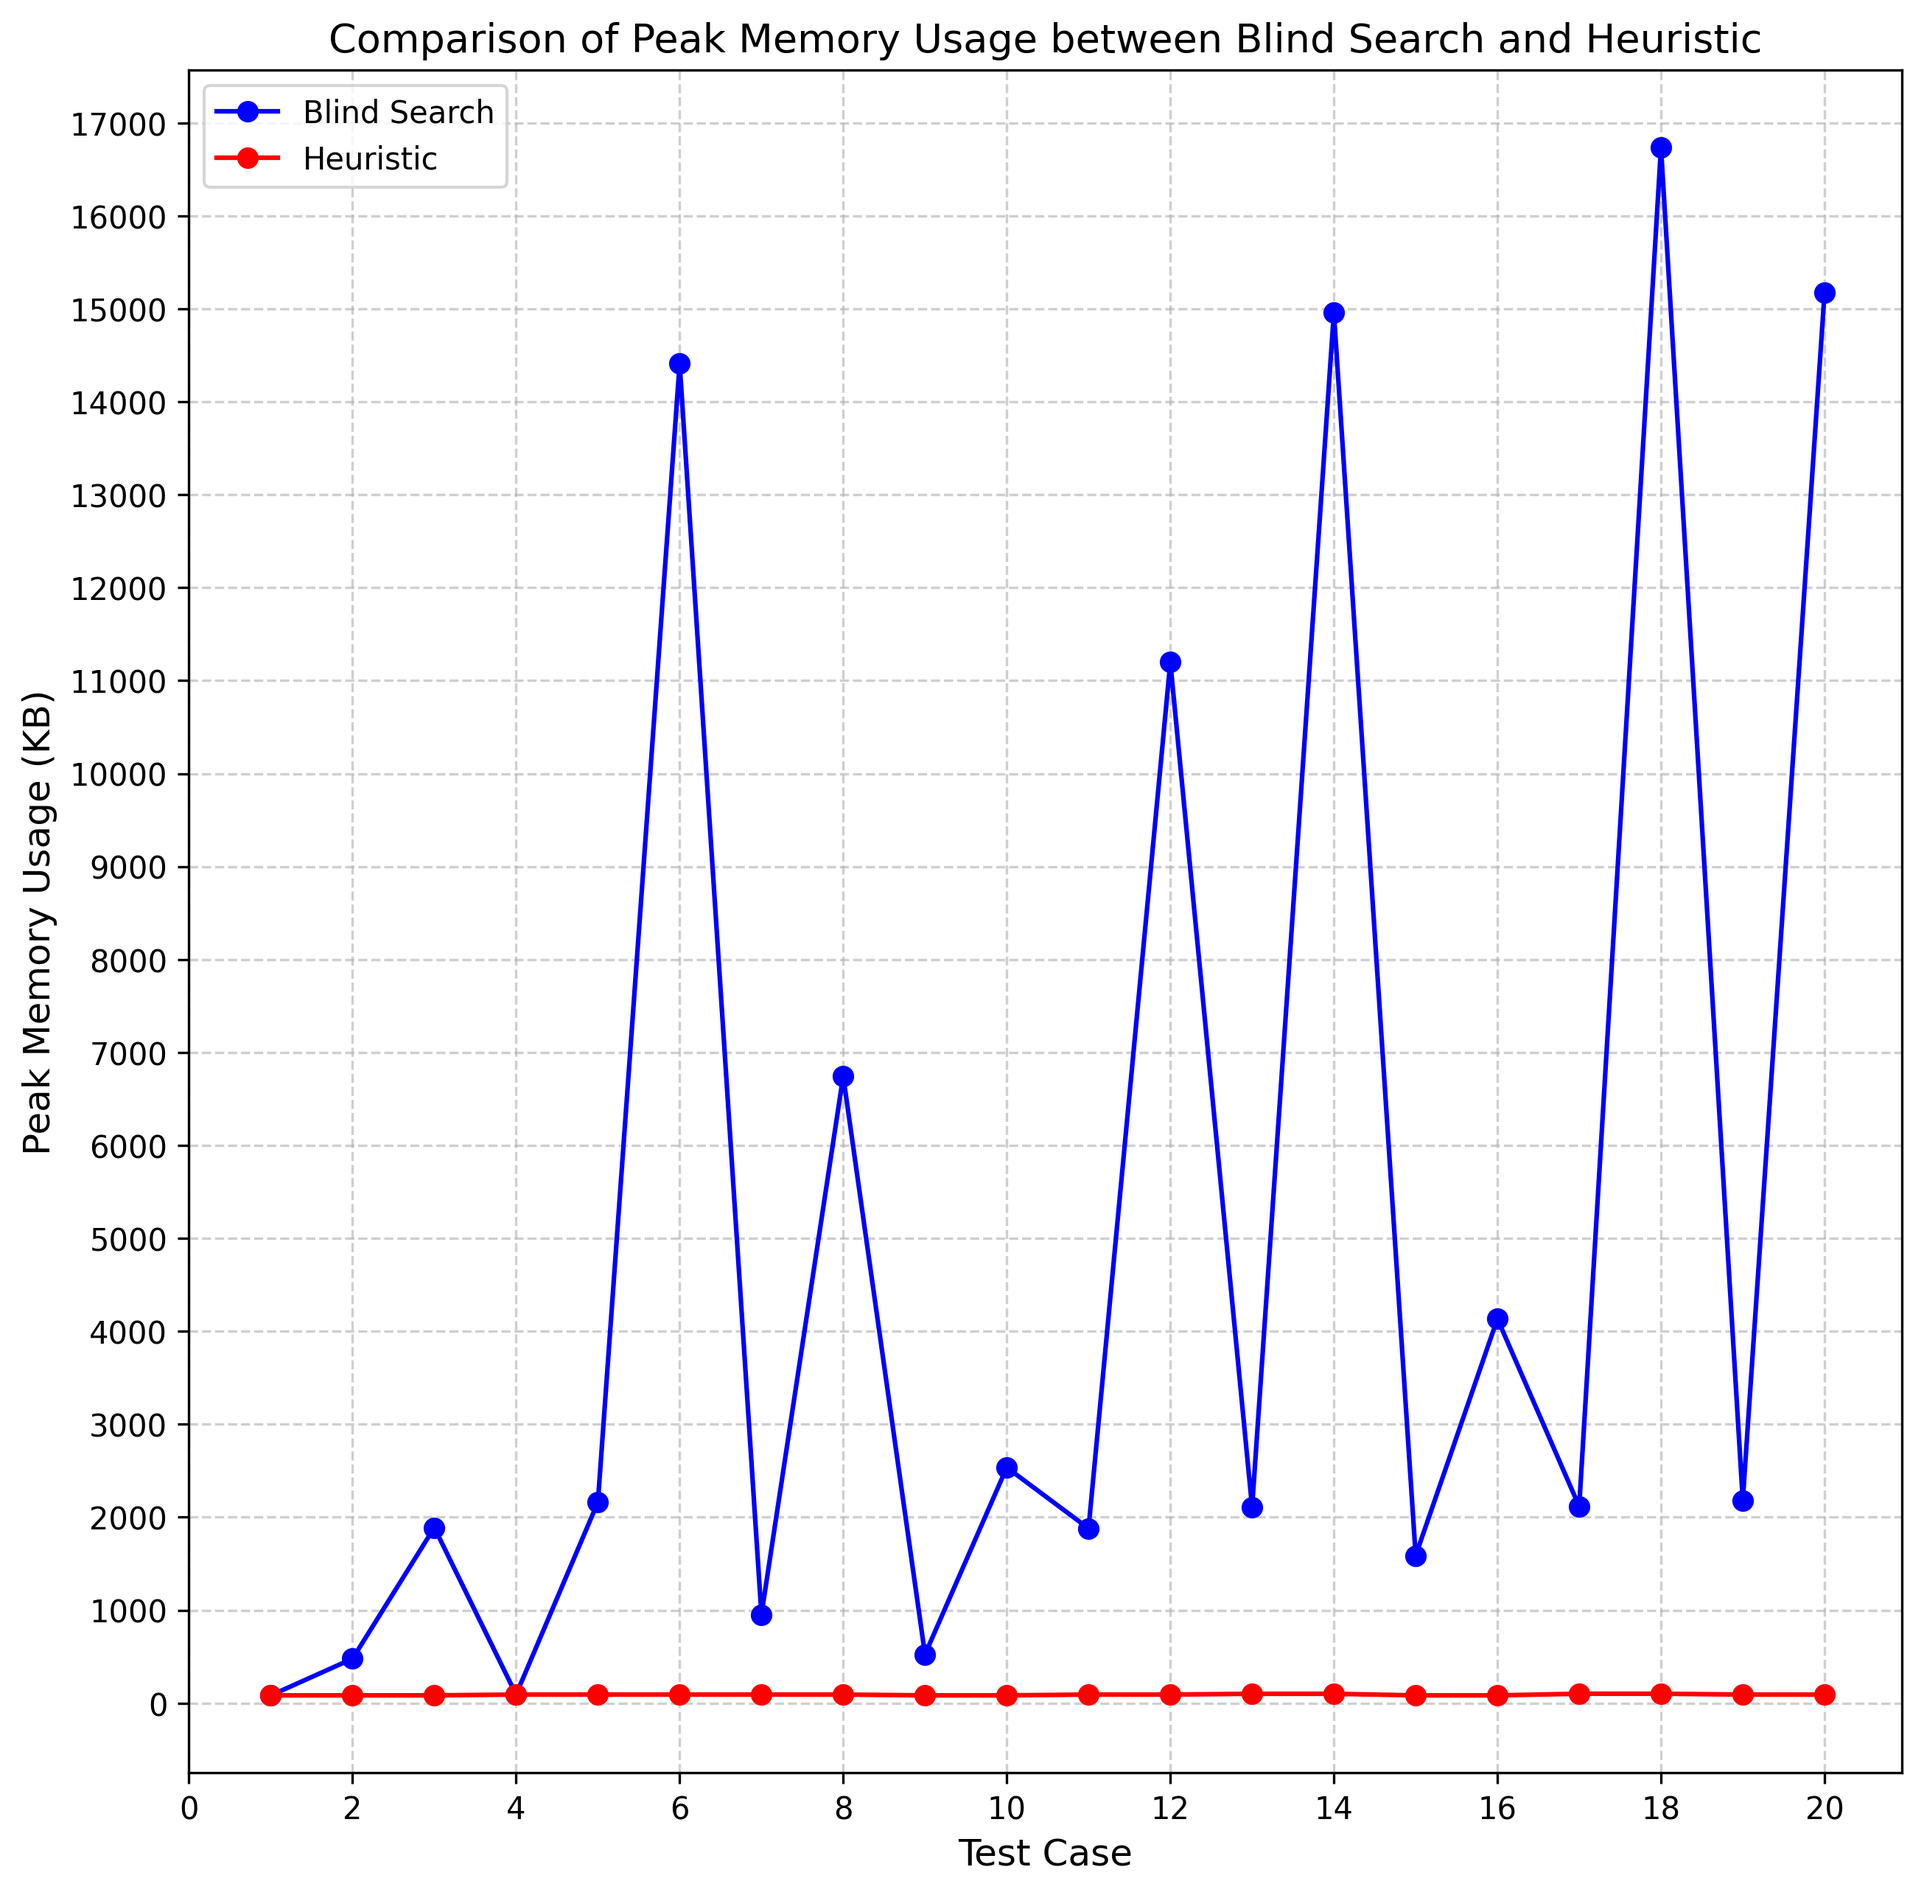
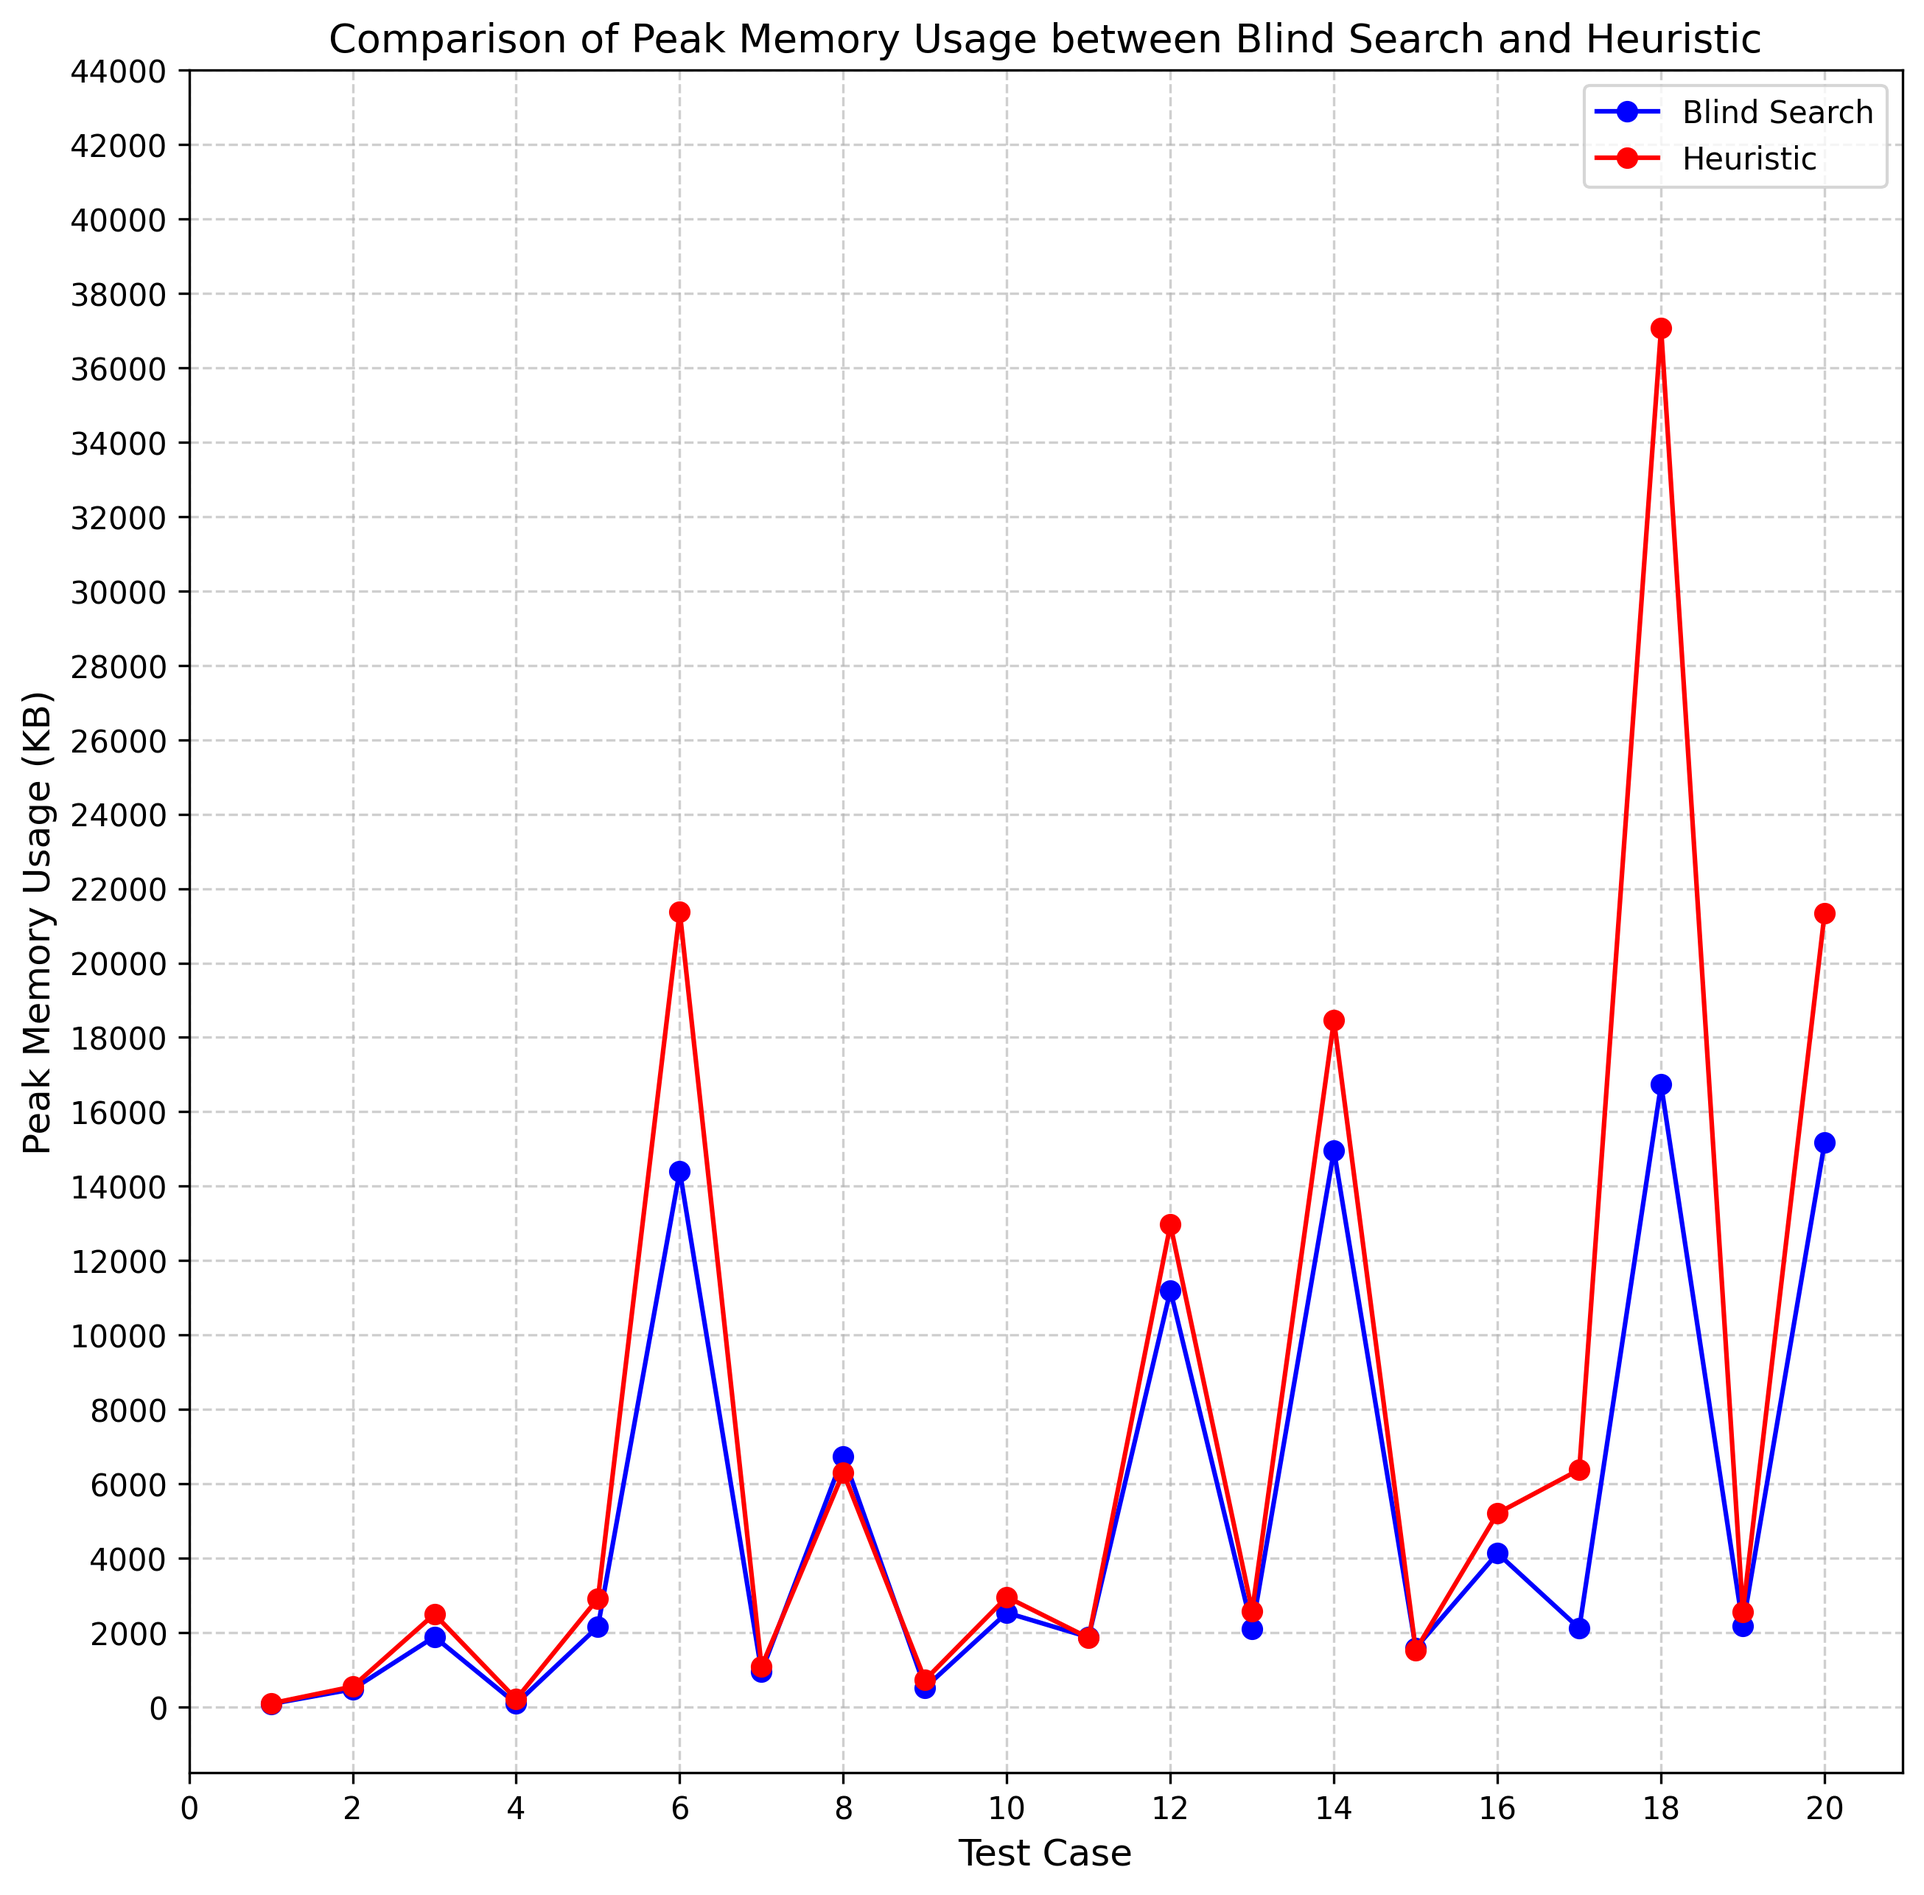
fix/chart

diff --git a/Backend/index.py b/Backend/index.py
@@ -30,10 +30,10 @@ def solution(algorithm, testcase):
     runtime = end_time - start_time
     memory_usage = peak /1024  # in KB
     
-    print(f"Algorithm: {algorithm}")
-    print(f'Runtime: {runtime:.4f} seconds')
+    # print(f"Algorithm: {algorithm}")
+    # print(f'Runtime: {runtime:.4f} seconds')
     print(f'Peak Memory Usage: {memory_usage:.2f} KB')
-    return solution, runtime, memory_usage
+    # return solution, runtime, memory_usage
           
 
 # def estimate(algorithm, testcase):
@@ -53,29 +53,29 @@ def solution(algorithm, testcase):
 
 if __name__ == "__main__":
     print(solution('blind_search', 'mini_cosmos_1.txt'))
-    # print(solution('blind_search', 'mini_cosmos_2.txt'))
-    # print(solution('blind_search', 'mini_cosmos_3.txt'))
-    # print(solution('blind_search', 'mini_cosmos_4.txt'))
-    # print(solution('blind_search', 'mini_cosmos_5.txt'))
-    # print(solution('blind_search', 'mini_cosmos_6.txt'))
-    # print(solution('blind_search', 'mini_cosmos_7.txt'))
-    # print(solution('blind_search', 'mini_cosmos_8.txt'))
-    # print(solution('blind_search', 'mini_cosmos_9.txt'))
-    # print(solution('blind_search', 'mini_cosmos_10.txt'))
-    # print(solution('blind_search', 'mini_cosmos_11.txt'))
-    # print(solution('blind_search', 'mini_cosmos_12.txt'))
-    # print(solution('blind_search', 'mini_cosmos_13.txt'))
-    # print(solution('blind_search', 'mini_cosmos_14.txt'))
-    # print(solution('blind_search', 'mini_cosmos_15.txt'))
-    # print(solution('blind_search', 'mini_cosmos_16.txt'))
-    # print(solution('blind_search', 'mini_cosmos_17.txt'))
-    # print(solution('blind_search', 'mini_cosmos_18.txt'))
-    # print(solution('blind_search', 'mini_cosmos_19.txt'))
-    # print(solution('blind_search', 'mini_cosmos_20.txt'))
+    print(solution('blind_search', 'mini_cosmos_2.txt'))
+    print(solution('blind_search', 'mini_cosmos_3.txt'))
+    print(solution('blind_search', 'mini_cosmos_4.txt'))
+    print(solution('blind_search', 'mini_cosmos_5.txt'))
+    print(solution('blind_search', 'mini_cosmos_6.txt'))
+    print(solution('blind_search', 'mini_cosmos_7.txt'))
+    print(solution('blind_search', 'mini_cosmos_8.txt'))
+    print(solution('blind_search', 'mini_cosmos_9.txt'))
+    print(solution('blind_search', 'mini_cosmos_10.txt'))
+    print(solution('blind_search', 'mini_cosmos_11.txt'))
+    print(solution('blind_search', 'mini_cosmos_12.txt'))
+    print(solution('blind_search', 'mini_cosmos_13.txt'))
+    print(solution('blind_search', 'mini_cosmos_14.txt'))
+    print(solution('blind_search', 'mini_cosmos_15.txt'))
+    print(solution('blind_search', 'mini_cosmos_16.txt'))
+    print(solution('blind_search', 'mini_cosmos_17.txt'))
+    print(solution('blind_search', 'mini_cosmos_18.txt'))
+    print(solution('blind_search', 'mini_cosmos_19.txt'))
+    print(solution('blind_search', 'mini_cosmos_20.txt'))
 
 
 
-    print(solution('heuristic', 'mini_cosmos_1.txt'))
+    # print(solution('heuristic', 'mini_cosmos_1.txt'))
     # print(solution('heuristic', 'mini_cosmos_2.txt'))
     # print(solution('heuristic', 'mini_cosmos_3.txt'))
     # print(solution('heuristic', 'mini_cosmos_4.txt'))

diff --git a/Backend/chartMt.py b/Backend/chartMt.py
@@ -2,18 +2,52 @@ import matplotlib.pyplot as plt
 
 # Data
 peak_memory_usageB = [
-    83.45, 478.14, 1888.48, 92.10, 2161.00,
-    14411.98, 950.85, 6745.23, 523.88, 2535.11,
-    1879.47, 11197.77, 2105.74, 14960.06, 1587.27,
-    4134.33, 2115.47, 16734.55, 2179.90, 15171.20
+    83.46,
+    478.14,
+    1888.48,
+    92.10,
+    2161.00,
+    14411.98,
+    950.85,
+    6745.23,
+    523.88,
+    2535.11,
+    1879.47,
+    11197.77,
+    2105.74,
+    14960.06,
+    1587.27,
+    4134.33,
+    2115.47,
+    16734.55,
+    2179.90,
+    15171.20
 ]
 
+
 peak_memory_usageH = [
-    83.45, 83.52, 83.51, 92.17, 92.15,
-    92.14, 92.14, 92.13, 83.45, 83.45,
-    92.09, 92.08, 100.50, 100.49, 83.40,
-    83.39, 101.22, 101.21, 92.04, 92.03
+    96.84,
+    550.56,
+    2497.99,
+    214.13,
+    2919.44,
+    21385.96,
+    1086.32,
+    6304.19,
+    731.64,
+    2957.34,
+    1860.60,
+    12968.60,
+    2581.61,
+    18459.04,
+    1532.20,
+    5210.37,
+    6381.17,
+    37070.59,
+    2556.10,
+    21340.92
 ]
+
 
 # Test case indices
 test_cases = list(range(1, 21))
@@ -30,7 +64,7 @@ plt.ylabel('Peak Memory Usage (KB)', fontsize=12)
 plt.legend()
 plt.grid(True, linestyle='--', alpha=0.6)
 plt.xticks(range(0, 22, 2))  # from 0 → 20, step 2
-plt.yticks(range(0, 17500, 1000))  # from 0 → 20, step 2
+plt.yticks(range(0, 45000, 2000))  # from 0 → 20, step 2
 
 # Save as high-resolution image
 plt.savefig('memory_comparison.png', dpi=300, bbox_inches='tight')

diff --git a/Backend/chartEt.py b/Backend/chartEt.py
@@ -2,18 +2,50 @@ import matplotlib.pyplot as plt
 
 # Data
 runtimesB = [
-    0.0061, 0.0346, 0.1534, 0.0088, 0.1521,
-    1.0613, 0.0789, 0.3881, 0.0395, 0.1736,
-    0.1169, 0.8327, 0.1565, 1.0691, 0.0948,
-    0.3130, 0.1451, 1.3116, 0.1485, 1.1293
+  0.0066,
+  0.0335,
+  0.1214,
+  0.0088,
+  0.1506,
+  1.0454,
+  0.0776,
+  0.3855,
+  0.0401,
+  0.1809,
+  0.1178,
+  0.8352,
+  0.1442,
+  1.1399,
+  0.1006,
+  0.3379,
+  0.1535,
+  1.3739,
+  0.1556,
+  1.1807
+]
+runtimesH = [
+    0.0167,
+    0.1295,
+    0.7395,
+    0.1680,
+    1.4926,
+    10.0857,
+    0.2254,
+    1.9221,
+    0.4226,
+    1.1720,
+    0.4038,
+    5.8828,
+    0.6494,
+    7.1271,
+    0.7254,
+    2.1143,
+    4.6445,
+    46.0357,
+    1.0859,
+    21.9143
 ]
 
-runtimesH = [
-    0.0018, 0.0015, 0.0014, 0.0015, 0.0014,
-    0.0016, 0.0015, 0.0015, 0.0013, 0.0013,
-    0.0015, 0.0015, 0.0015, 0.0018, 0.0014,
-    0.0012, 0.0015, 0.0020, 0.0018, 0.0017
-]
 
 # Convert seconds → milliseconds
 runtimesB_ms = [t * 1000 for t in runtimesB]
@@ -23,7 +55,7 @@ runtimesH_ms = [t * 1000 for t in runtimesH]
 test_cases = list(range(1, 21))
 
 # Plot
-plt.figure(figsize=(10, 6))
+plt.figure(figsize=(10, 10))
 plt.plot(test_cases, runtimesB_ms, marker='o', color='blue', label='Blind Search')
 plt.plot(test_cases, runtimesH_ms, marker='o', color='red', label='Heuristic')
 

diff --git a/Backend/README.md b/Backend/README.md
@@ -11,3 +11,15 @@
         solution('heuristic', 'mini_cosmos_1.txt') (for astar)
     output:
         'UULUURLDDRRURRUULLDDULLDDRRLDDRRUULUR', 0.001999378204345703, 125.0625 (list of steps, time (second), memory (KB))
+
+### Draw chart
+
+    python3 -m venv venv
+
+    source venv/bin/activate
+
+    pip3 install matplotlib
+
+    python3 -m Backend.chartEt
+
+    deactivate
